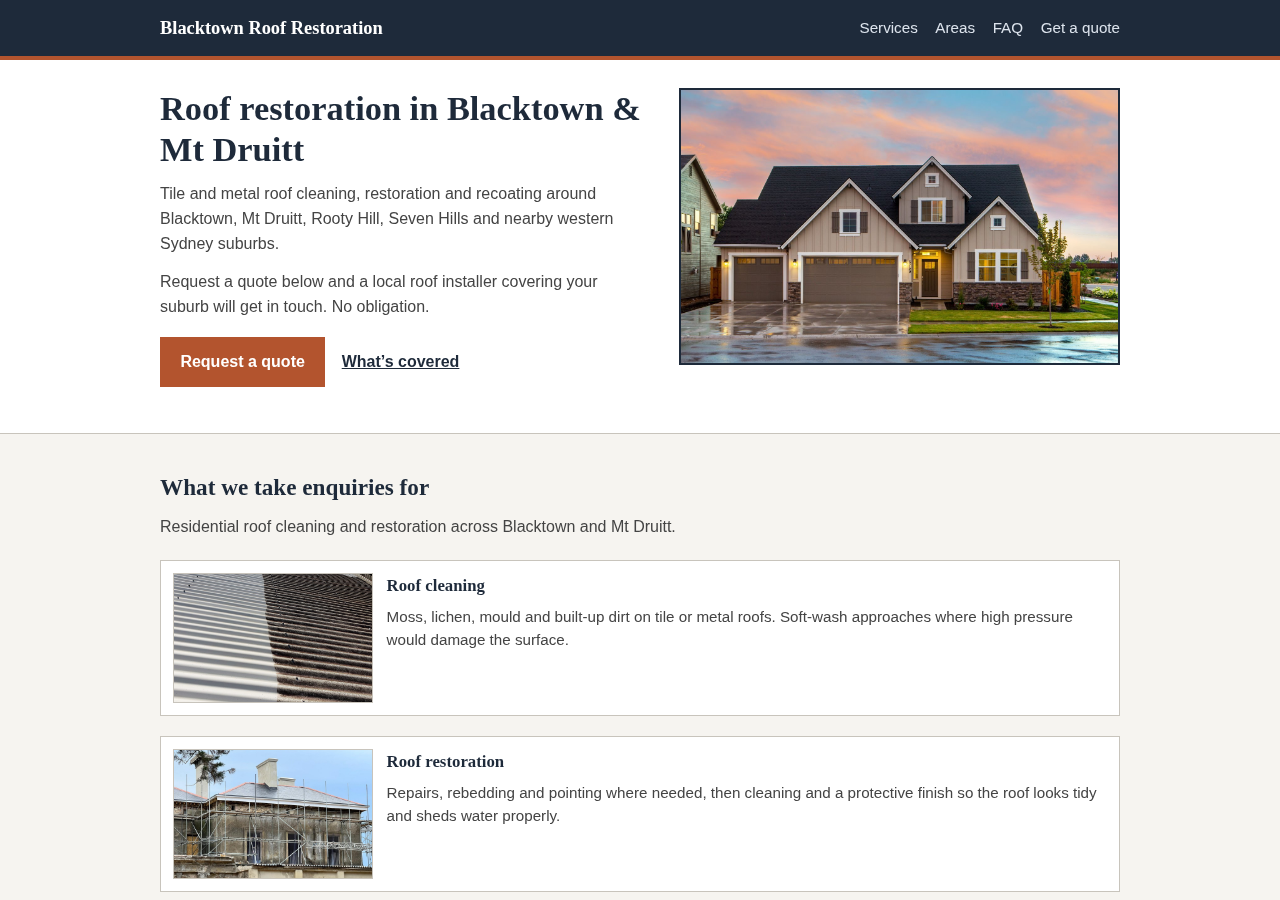
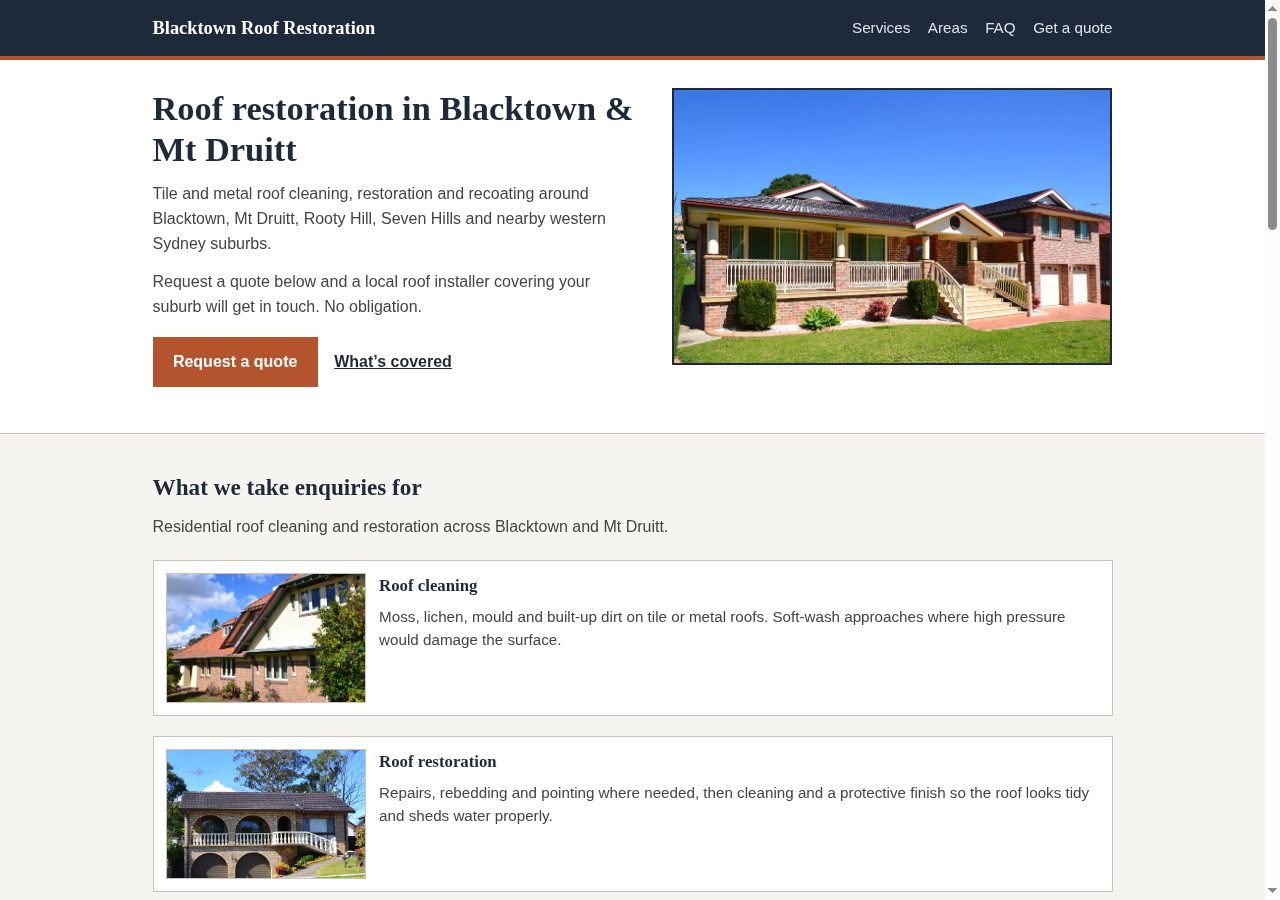
Replace non-AU stock photos with Australian Commons images
Prefer Wikimedia photos geotagged or described as NSW/VIC/QLD.
Use local CSS colour panels where no free AU photo fits
(epoxy flake/resin; stump-grinder close-up). Update ATTRIBUTION
and desktop-hero screenshots.

diff --git a/index.html b/index.html
@@ -74,7 +74,7 @@
             src="assets/images/suburban-house.jpg"
             width="1400"
             height="933"
-            alt="Suburban house with a tiled roof under a clear sky"
+            alt="Brick veneer house with dark glazed tile roof in Blacktown NSW"
             loading="eager"
             decoding="async">
         </figure>
@@ -88,28 +88,28 @@
 
         <div class="service-list">
           <article class="service">
-            <img src="assets/images/roof-cleaning-before-after.jpg" width="1400" height="1184" alt="Roof surface showing cleaned section next to weathered section" loading="lazy" decoding="async">
+            <img src="assets/images/roof-cleaning-before-after.jpg" width="1400" height="1184" alt="Federation house with terracotta tile roof on Grafton Street, Blacktown NSW" loading="lazy" decoding="async">
             <div>
               <h3>Roof cleaning</h3>
               <p>Moss, lichen, mould and built-up dirt on tile or metal roofs. Soft-wash approaches where high pressure would damage the surface.</p>
             </div>
           </article>
           <article class="service">
-            <img src="assets/images/roof-restoration-work.jpg" width="1200" height="900" alt="Workers carrying out roof restoration on a tiled roof" loading="lazy" decoding="async">
+            <img src="assets/images/roof-restoration-work.jpg" width="1200" height="900" alt="Two-storey brick house with concrete tile roof on Balmoral Street, Blacktown NSW" loading="lazy" decoding="async">
             <div>
               <h3>Roof restoration</h3>
               <p>Repairs, rebedding and pointing where needed, then cleaning and a protective finish so the roof looks tidy and sheds water properly.</p>
             </div>
           </article>
           <article class="service">
-            <img src="assets/images/terracotta-tiles.jpg" width="1200" height="800" alt="Close-up of terracotta clay roof tiles" loading="lazy" decoding="async">
+            <img src="assets/images/terracotta-tiles.jpg" width="1200" height="800" alt="Close-up of terracotta roof tiles on a bungalow in Chatswood, Sydney" loading="lazy" decoding="async">
             <div>
               <h3>Tile roof recoating</h3>
               <p>Colour restoration and sealers for concrete or terracotta tiles after a proper clean. Useful when fading and porous tiles are holding moisture.</p>
             </div>
           </article>
           <article class="service">
-            <img src="assets/images/low-pressure-roof-wash.jpg" width="1200" height="900" alt="Low-pressure wash cleaning an asphalt shingle roof" loading="lazy" decoding="async">
+            <img src="assets/images/low-pressure-roof-wash.jpg" width="1200" height="900" alt="Weatherboard cottage with metal roof and terracotta neighbours on Gordon Street, Blacktown NSW" loading="lazy" decoding="async">
             <div>
               <h3>Metal roof restoration</h3>
               <p>Cleaning, rust treatment and recoating for Colorbond-style and older metal roofs. Flag rust or leaks on the form so the installer can advise.</p>

diff --git a/assets/styles.css b/assets/styles.css
@@ -438,3 +438,32 @@ details p {
 @media (prefers-reduced-motion: reduce) {
   html { scroll-behavior: auto; }
 }
+
+/* Local colour panels used when no free AU photo fits the slot */
+.photo-panel {
+  width: 100%;
+  height: 160px;
+  border: 1px solid var(--line);
+}
+.panel-flake {
+  background:
+    radial-gradient(circle at 20% 30%, #e8e8ea 1.5px, transparent 2px),
+    radial-gradient(circle at 70% 55%, #c62828 1.5px, transparent 2px),
+    radial-gradient(circle at 45% 75%, #f9a825 1.5px, transparent 2px),
+    radial-gradient(circle at 85% 25%, #1565c0 1.5px, transparent 2px),
+    radial-gradient(circle at 35% 45%, #bdbdbd 1.5px, transparent 2px),
+    #2c2f36;
+  background-size: 18px 18px, 22px 22px, 20px 20px, 24px 24px, 16px 16px, auto;
+}
+.panel-resin {
+  background: linear-gradient(160deg, #6e7178 0%, #9a9da3 40%, #5c5f66 70%, #7a7d84 100%);
+}
+.panel-stump {
+  background:
+    radial-gradient(ellipse at 30% 40%, #7a6238 0%, transparent 55%),
+    radial-gradient(ellipse at 70% 70%, #4a5535 0%, transparent 50%),
+    linear-gradient(180deg, #3e4a30 0%, #2a3220 100%);
+}
+@media (min-width: 720px) {
+  .service .photo-panel { height: 130px; }
+}
